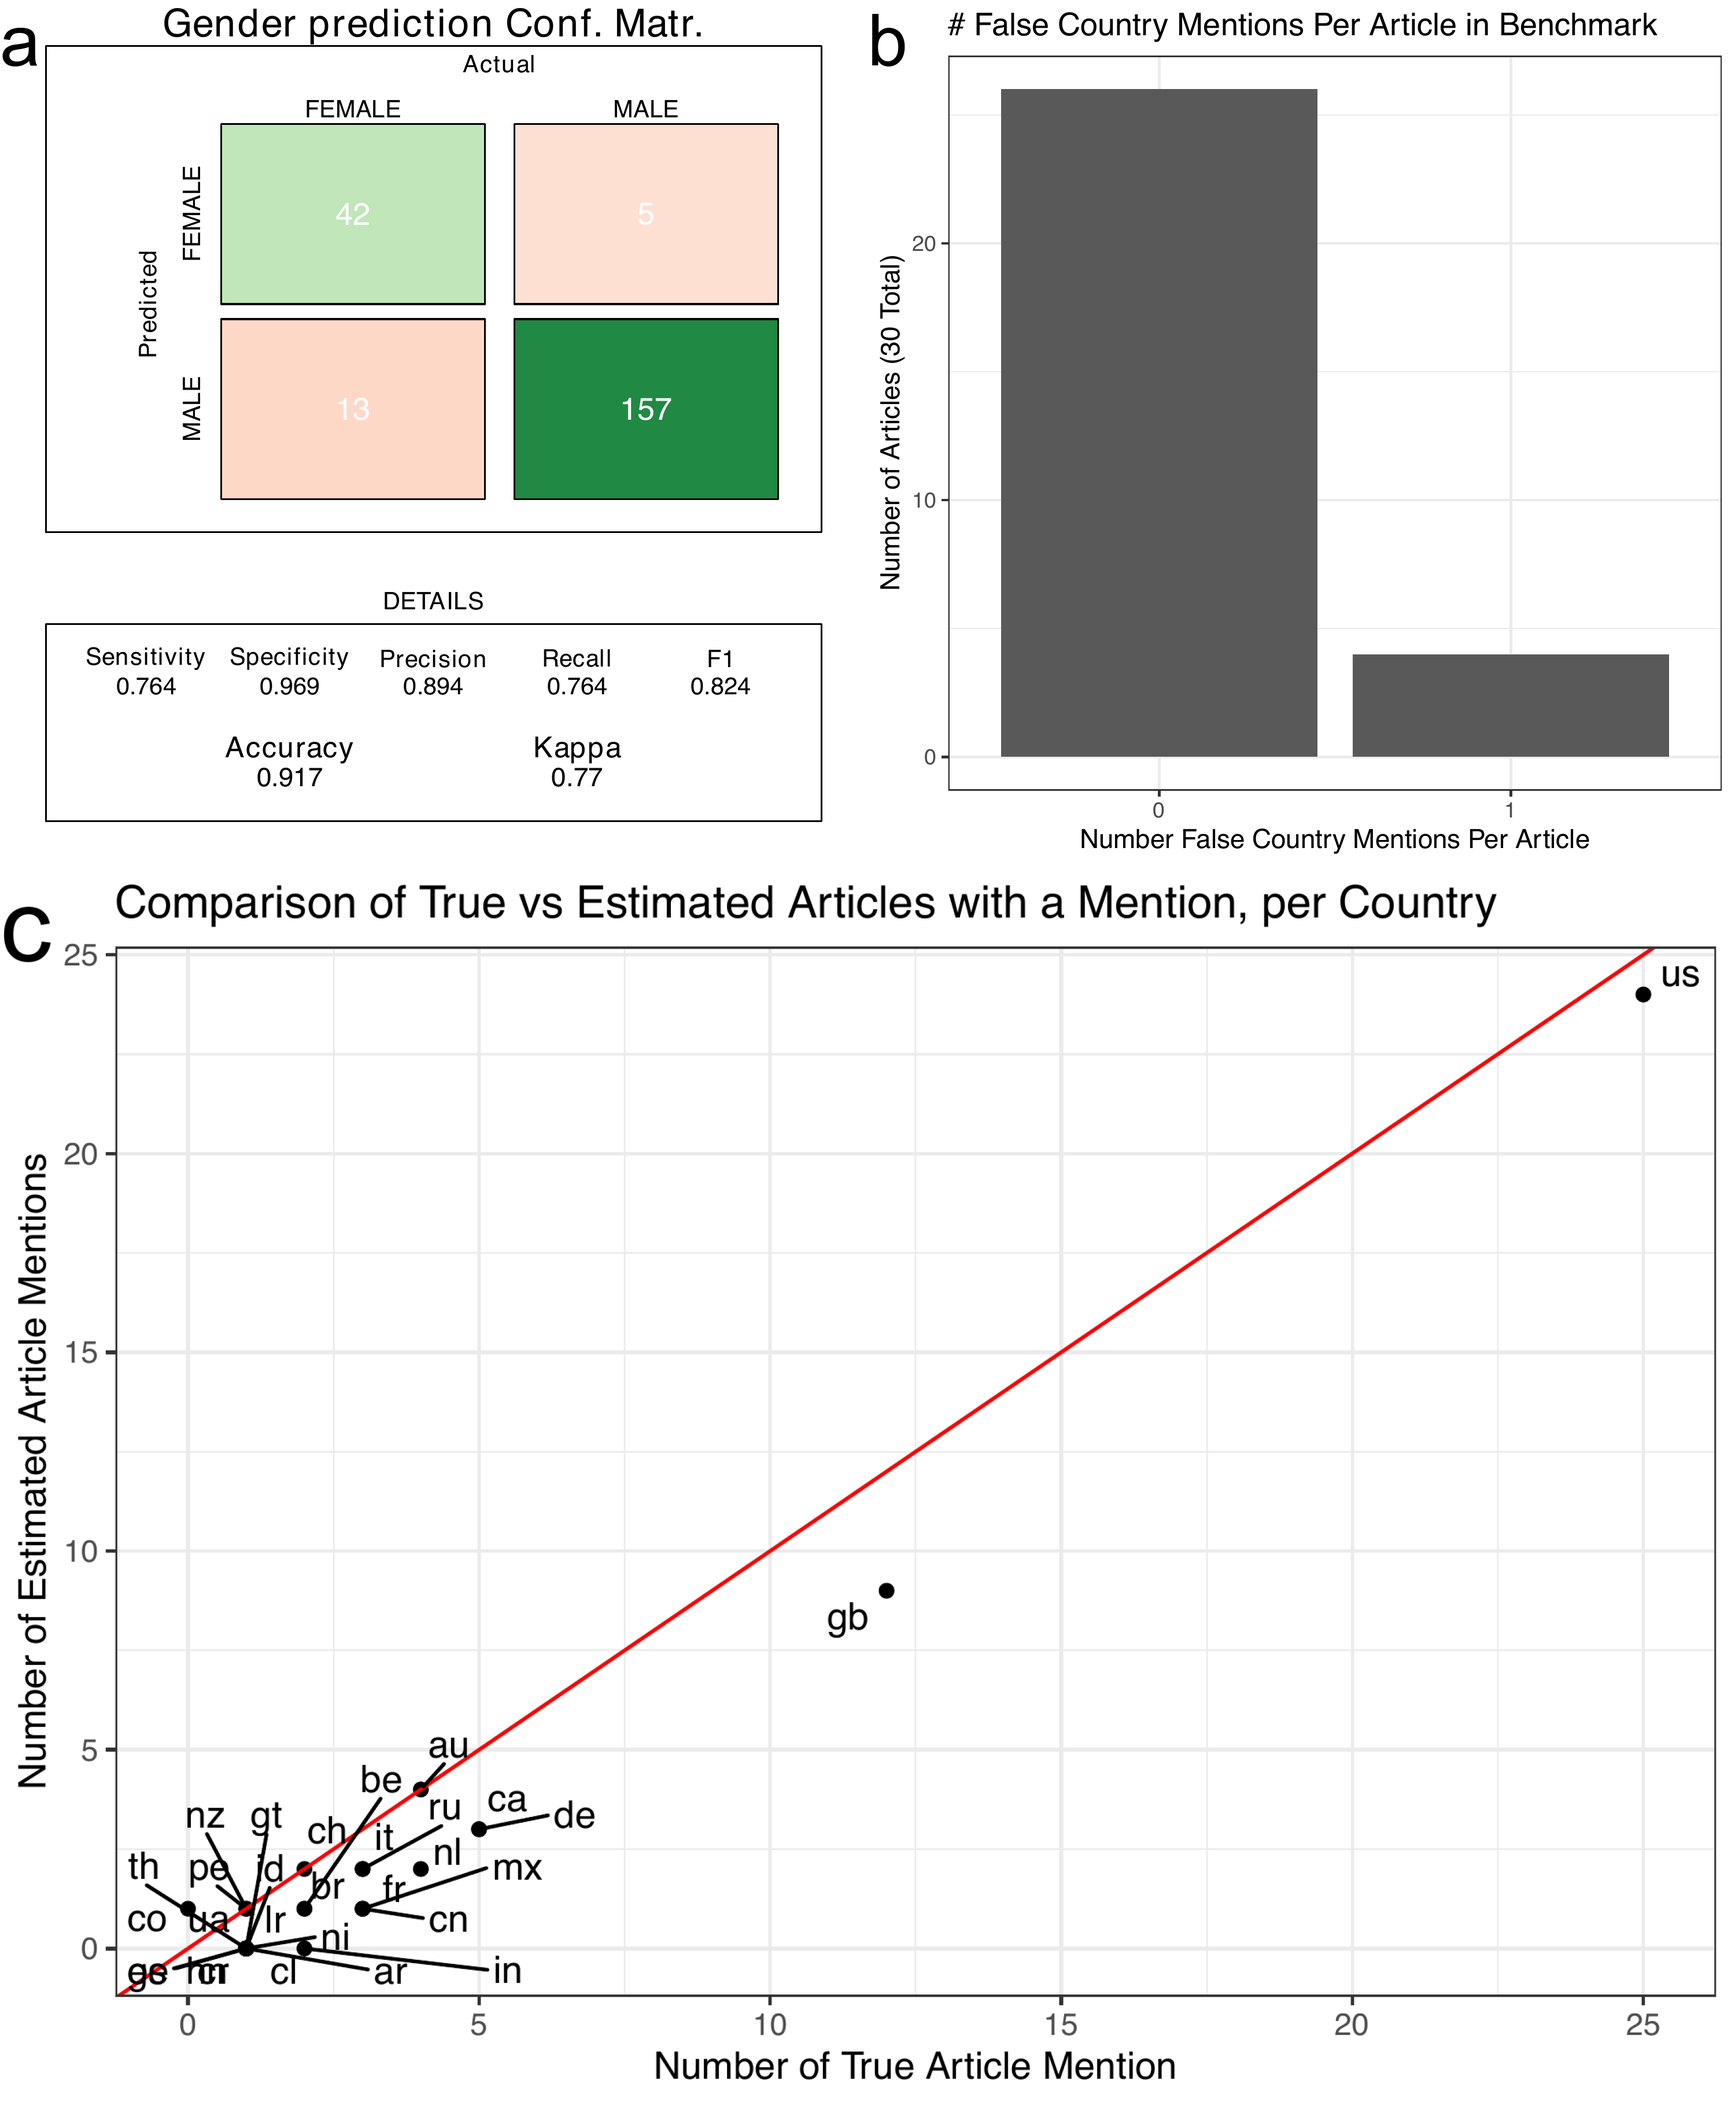
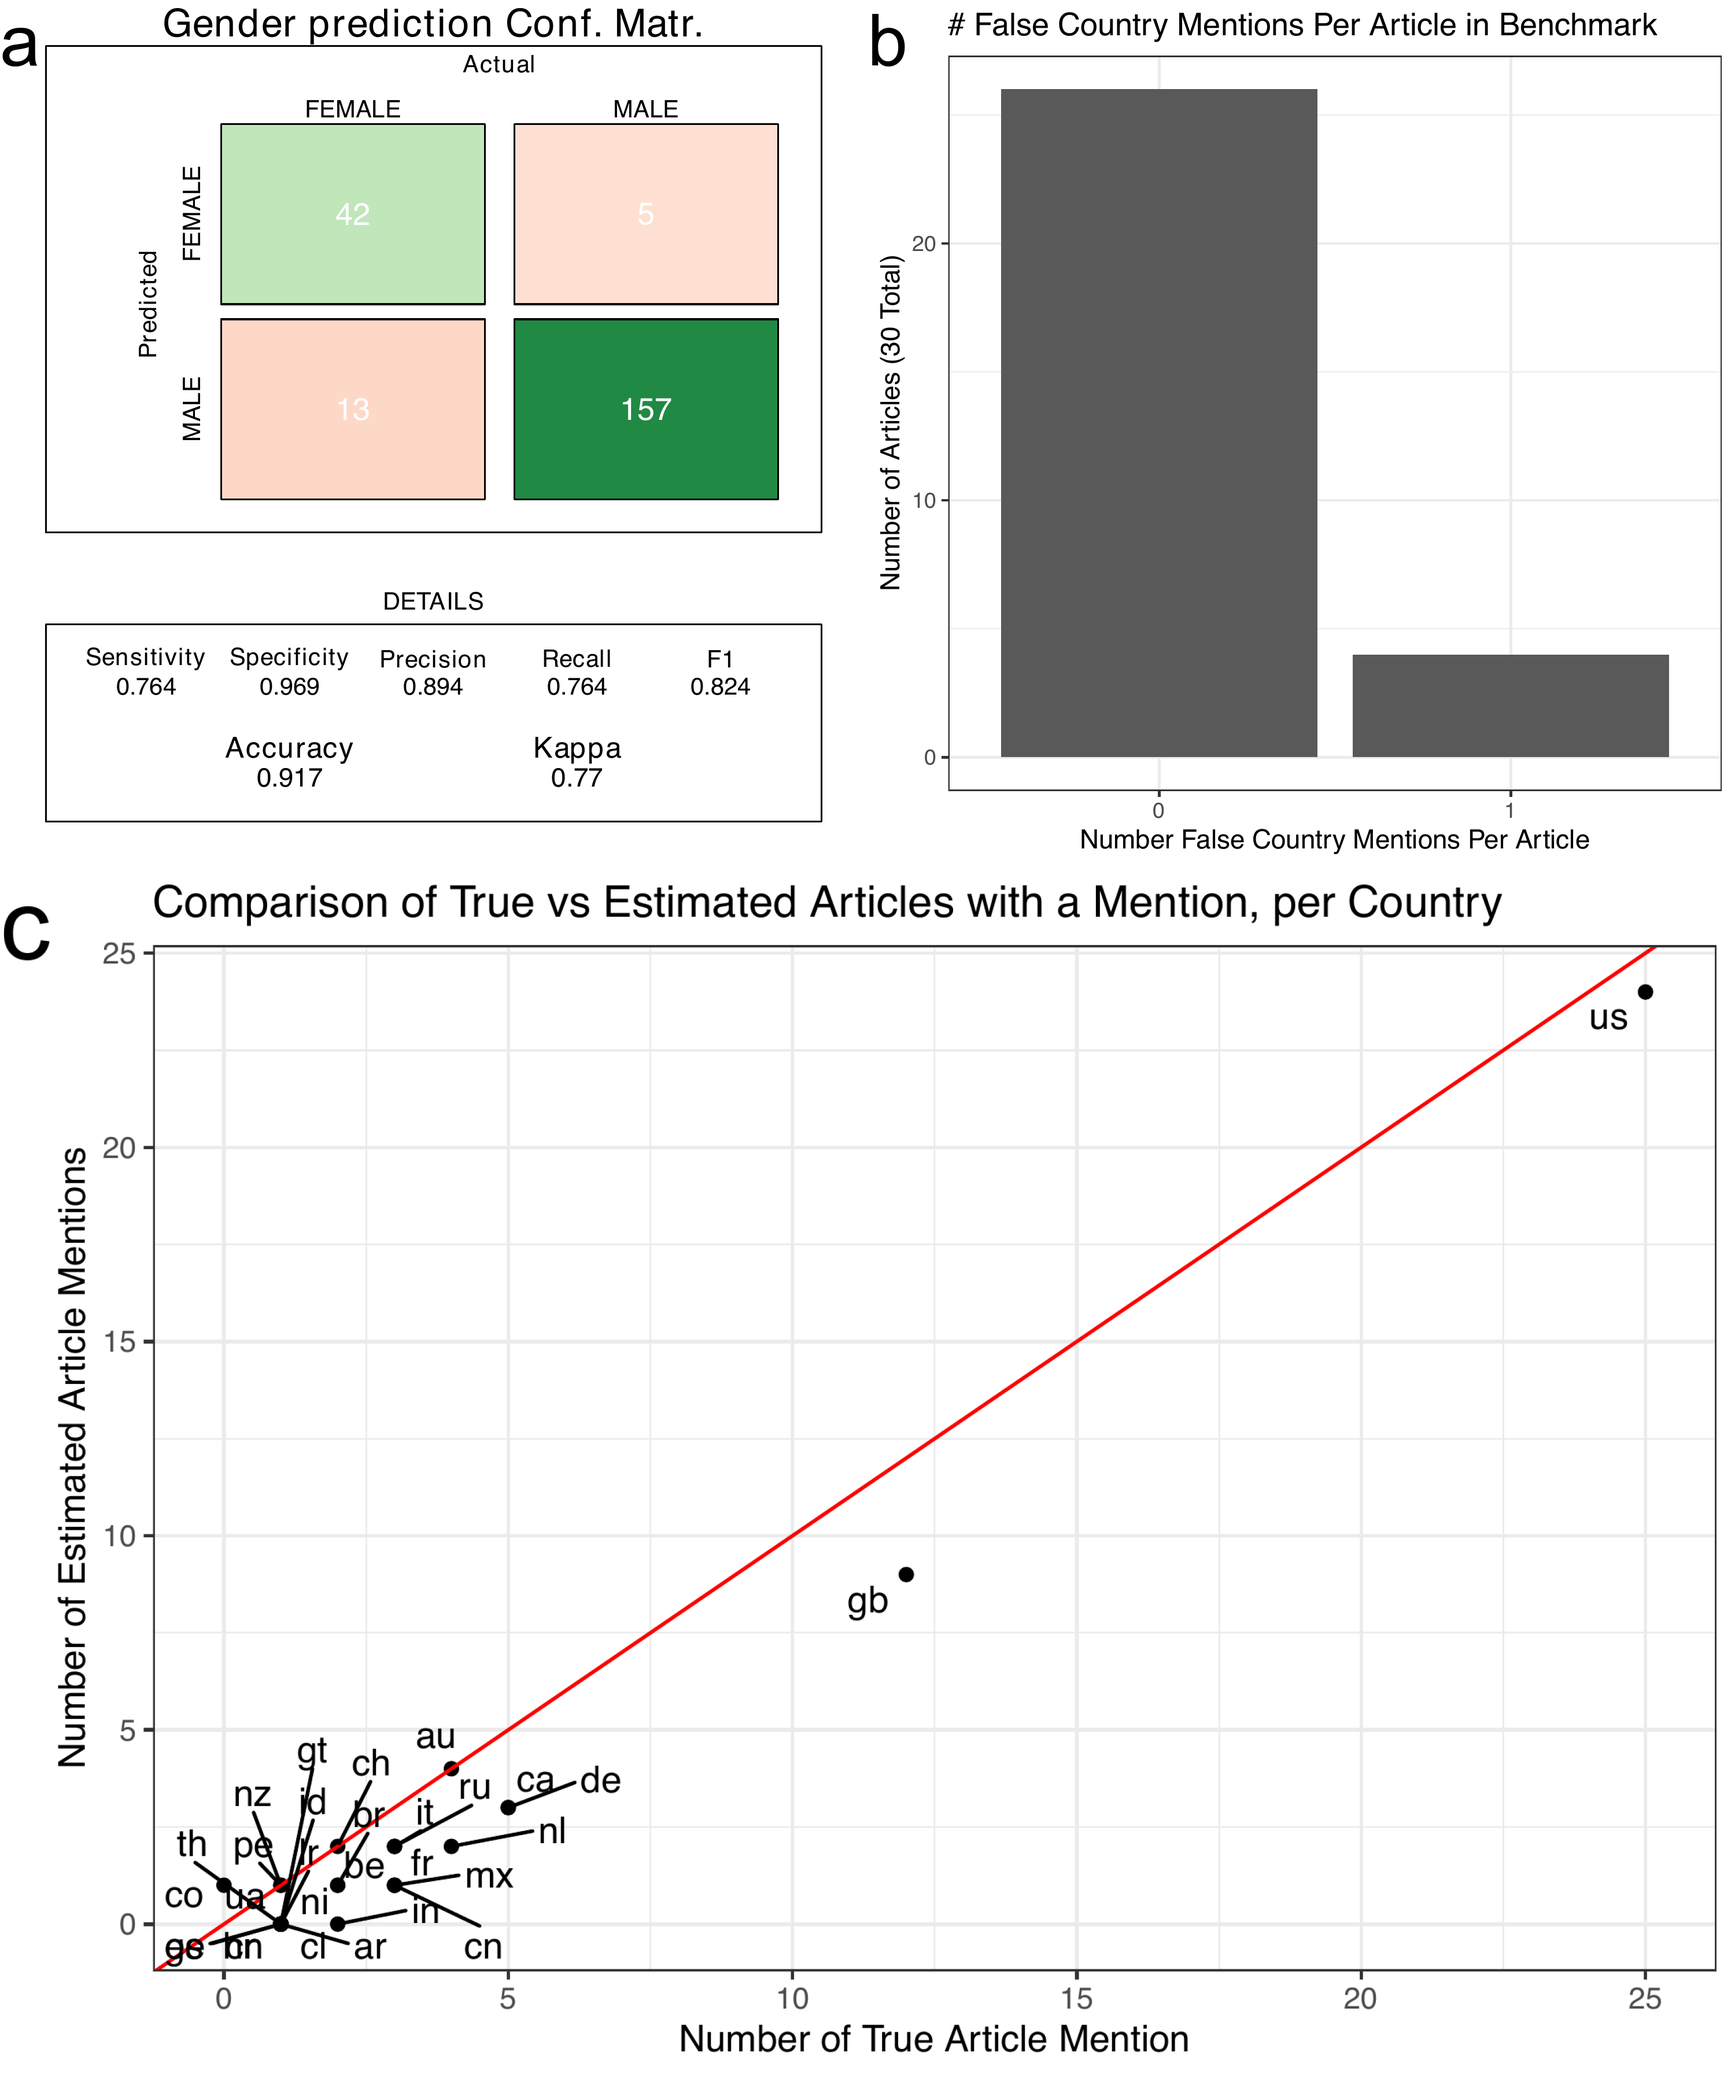
added more space for the panel labels in supp fig 1

diff --git a/figure_notebooks/supp_fig1.md b/figure_notebooks/supp_fig1.md
@@ -253,6 +253,7 @@ gg_loc_hist = image_annotate(gg_loc_hist, "b", size = 30)
 
 gg_loc_line = image_read_pdf(file.path(proj_dir,
                                   "/figure_notebooks/tmp_files/supp_fig1_tmp/gg_loc_line.pdf"))
+gg_loc_line = image_extent(gg_loc_line, '2150x1500', color = 'white', gravity = "northeast")
 gg_loc_line = image_annotate(gg_loc_line, "c", size = 30)
 
 
@@ -265,7 +266,7 @@ print(full_image)
     ## # A tibble: 1 x 7
     ##   format width height colorspace matte filesize density
     ##   <chr>  <int>  <int> <chr>      <lgl>    <int> <chr>  
-    ## 1 PNG     3000   3643 sRGB       TRUE         0 300x300
+    ## 1 PNG     3000   3593 sRGB       TRUE         0 300x300
 
 <img src="supp_fig1_files/figure-markdown_github/make_supp_fig1-1.png" width="3000" />
 
